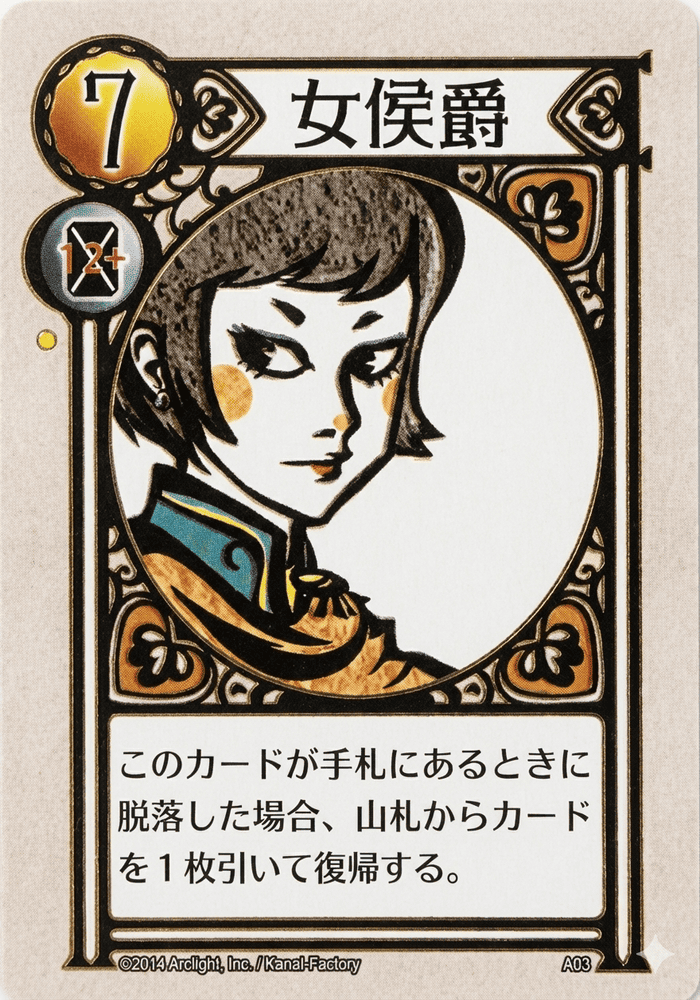
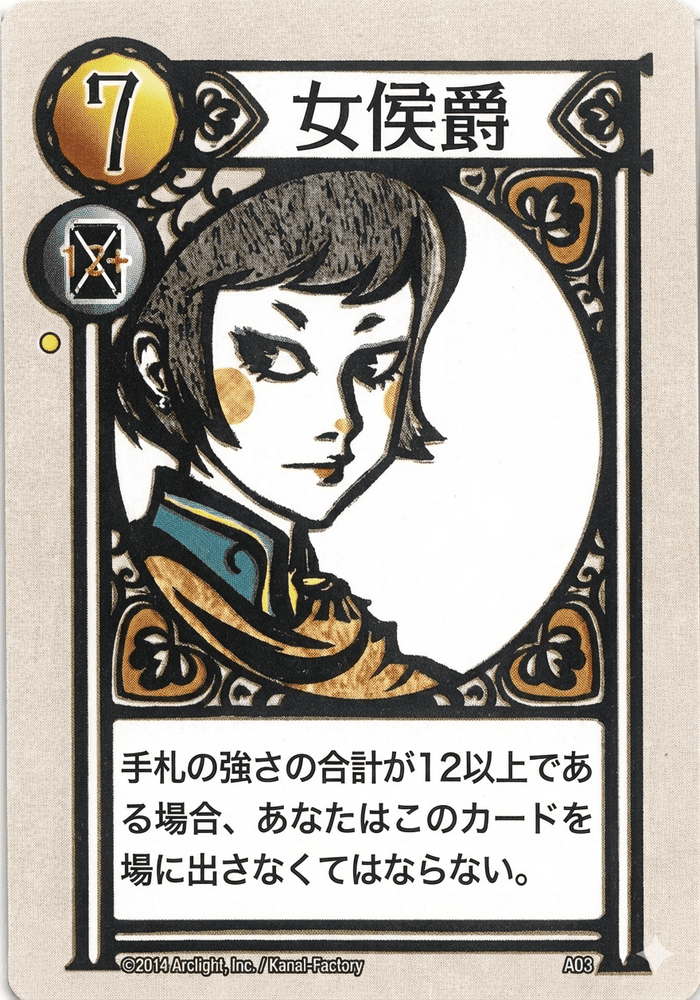
dev (assets 20251231031048)

diff --git a/bbg.js b/bbg.js
@@ -3599,15 +3599,18 @@
   }
 
   function llMustPlayCountess(hand) {
+    // Extra card rule (7:countess):
+    // If you have the Countess and your hand total is 12 or more, you must play the Countess.
     if (!Array.isArray(hand) || hand.length < 2) return false;
-    var has7 = false;
-    var has5or6 = false;
+    var hasCountess = false;
+    var total = 0;
     for (var i = 0; i < hand.length; i++) {
-      var r = llCardRankStr(hand[i]);
-      if (r === '7') has7 = true;
-      if (r === '5' || r === '6') has5or6 = true;
+      var cid = String(hand[i] || '');
+      if (!cid) continue;
+      if (cid === '7:countess') hasCountess = true;
+      total += llCardRank(cid) || 0;
     }
-    return has7 && has5or6;
+    return hasCountess && total >= 12;
   }
 
   function llDrawFromRound(round) {
@@ -3779,7 +3782,7 @@
     protectedMap[startId] = false;
     if (hands[startId] && deck.length) hands[startId].push(String(deck.pop()));
 
-    // Minister(7) overload rule: if you have 7 and your 2-card total >= 12, you immediately lose.
+    // Minister(7) overload rule: if you have the base Minister card ('7') and your 2-card total >= 12, you immediately lose.
     // Hold the round until the player acknowledges.
     var startHand = Array.isArray(hands[startId]) ? hands[startId] : [];
     if (startHand.length >= 2) {
@@ -3788,7 +3791,7 @@
       var av0 = llCardRank(a0);
       var bv0 = llCardRank(b0);
       var total0 = (av0 || 0) + (bv0 || 0);
-      if ((llCardRankStr(a0) === '7' || llCardRankStr(b0) === '7') && total0 >= 12) {
+      if ((a0 === '7' || b0 === '7') && total0 >= 12) {
         // eliminate and store reveal
         eliminated[startId] = true;
         protectedMap[startId] = false;
@@ -3904,8 +3907,8 @@
       var idx = myHand.indexOf(card);
       if (idx < 0) return room;
 
-      // Countess rule.
-      if (llMustPlayCountess(myHand) && llCardRankStr(card) !== '7') return room;
+      // Countess rule (extra card): force playing 7:countess.
+      if (llMustPlayCountess(myHand) && String(card) !== '7:countess') return room;
 
       // Remove played card from hand.
       myHand.splice(idx, 1);
@@ -3968,17 +3971,52 @@
         if (cardRank) grave.push(String(cardRank));
       }
 
-      function eliminatePlayer(pid, reason) {
-        if (eliminated[pid]) return;
+      function eliminatePlayer(pid, reason, opts) {
+        if (eliminated[pid]) return { eliminated: false, revived: false, drew: '' };
+
+        var h = hands && Array.isArray(hands[pid]) ? hands[pid].slice() : [];
+        var reviveByMegane = !!(opts && opts.megane);
+        if (!reviveByMegane) {
+          for (var mi = 0; mi < h.length; mi++) {
+            if (String(h[mi] || '') === '8:megane') {
+              reviveByMegane = true;
+              break;
+            }
+          }
+        }
+
         eliminated[pid] = true;
         protectedMap[pid] = false;
+
         // move remaining hand to discard (public)
-        var h = hands && Array.isArray(hands[pid]) ? hands[pid].slice() : [];
         for (var i = 0; i < h.length; i++) pushDiscard(pid, h[i]);
         hands[pid] = [];
+
+        if (reviveByMegane) {
+          // Revive: draw 1 card from deck; if empty, take the face-down burn card (grave[0]).
+          var drew = '';
+          var d = llDrawFromRound(round);
+          if (d) {
+            drew = String(d);
+            hands[pid] = [drew];
+          } else {
+            var burnCard = grave && Array.isArray(grave) && grave.length ? String(grave[0] || '') : '';
+            if (burnCard) {
+              grave.shift();
+              drew = burnCard;
+              hands[pid] = [drew];
+            }
+          }
+
+          eliminated[pid] = false;
+          protectedMap[pid] = false;
+          return { eliminated: true, revived: true, drew: drew };
+        }
+
         if (reason) {
           // reserved
         }
+        return { eliminated: true, revived: false, drew: '' };
       }
 
       var actorName = pname(actorId);
@@ -4005,8 +4043,8 @@
             logText += '（僧侶により保護中：無効）';
             protectedHit = true;
           } else if (th && parseIntSafe(th, 0) === g) {
-            eliminatePlayer(t, 'guard');
-            logText += '（的中：脱落）';
+            var er1 = eliminatePlayer(t, 'guard');
+            logText += er1 && er1.revived ? '（的中：脱落→復帰）' : '（的中：脱落）';
             hit = true;
           } else {
             logText += '（外れ）';
@@ -4056,11 +4094,11 @@
               if (av === bv) {
                 logText += '（引き分け）';
               } else if (av < bv) {
-                eliminatePlayer(actorId, 'knight');
-                logText += '（' + pname(t3) + ' 勝ち：' + actorName + ' 脱落）';
+                var erK1 = eliminatePlayer(actorId, 'knight');
+                logText += '（' + pname(t3) + ' 勝ち：' + actorName + (erK1 && erK1.revived ? ' 脱落→復帰）' : ' 脱落）');
               } else {
-                eliminatePlayer(t3, 'knight');
-                logText += '（' + actorName + ' 勝ち：' + pname(t3) + ' 脱落）';
+                var erK2 = eliminatePlayer(t3, 'knight');
+                logText += '（' + actorName + ' 勝ち：' + pname(t3) + (erK2 && erK2.revived ? ' 脱落→復帰）' : ' 脱落）');
               }
             }
             // Show both cards to everyone, and wait for actor to proceed.
@@ -4090,8 +4128,9 @@
             logText += ' → ' + pname(t5) + ' に捨て札';
             var drawn = '';
             if (llCardRankStr(old) === '8') {
-              eliminatePlayer(t5, 'wizard_princess');
-              logText += '（姫：脱落）';
+              var isMegane = String(old) === '8:megane';
+              var erP = eliminatePlayer(t5, 'wizard_princess', isMegane ? { megane: true } : null);
+              logText += isMegane ? '（姫(眼鏡)：脱落→復帰）' : '（姫：脱落）';
             } else {
               var d5 = llDrawFromRound(round);
               if (d5) {
@@ -4145,8 +4184,13 @@
         // Countess
         logText += '（効果なし）';
       } else if (cardRankStr === '8') {
-        // Princess (cannot be played by choice)
-        return room;
+        // Princess: base '8' cannot be played by choice, but 8:megane can.
+        if (String(card) === '8:megane') {
+          eliminatePlayer(actorId, 'megane_play', { megane: true });
+          logText += '（姫(眼鏡)：脱落→復帰）';
+        } else {
+          return room;
+        }
       }
 
       // Write back updated round parts.
@@ -4209,9 +4253,9 @@
         if (drawn2) {
           var before = nextHand.length ? String(nextHand[0]) : '';
           nextHand.push(String(drawn2));
-          // Minister overload: if you have 7 and your 2-card total >= 12, you immediately lose.
+          // Minister overload: if you have base '7' and your 2-card total >= 12, you immediately lose.
             var total = (llCardRank(before) || 0) + (llCardRank(drawn2) || 0);
-            if ((llCardRankStr(before) === '7' || llCardRankStr(drawn2) === '7') && total >= 12) {
+            if ((before === '7' || String(drawn2) === '7') && total >= 12) {
               // eliminate and pause until ack
               eliminated[next.id] = true;
               protectedMap[next.id] = false;
@@ -4321,7 +4365,7 @@
           var before = nextHand.length ? String(nextHand[0]) : '';
           nextHand.push(String(drawn2));
             var total = (llCardRank(before) || 0) + (llCardRank(drawn2) || 0);
-            if ((llCardRankStr(before) === '7' || llCardRankStr(drawn2) === '7') && total >= 12) {
+            if ((before === '7' || String(drawn2) === '7') && total >= 12) {
               eliminated[next.id] = true;
               protectedMap[next.id] = false;
               for (var mdi = 0; mdi < nextHand.length; mdi++) pushDiscard(next.id, nextHand[mdi]);
@@ -8743,7 +8787,7 @@
         (isMyTurn
           ? '<div class="muted center ll-hint">タップで前後切替 / 長押しで使用</div>'
           : '<div class="muted center ll-hint">あなたの手札</div>') +
-        (isMyTurn && must7 ? '<div class="muted center">※ 大臣(7)を必ず使用</div>' : '') +
+        (isMyTurn && must7 ? '<div class="muted center">※ 女侯爵(7)を必ず使用（合計12以上）</div>' : '') +
         '</div>';
     }
 
@@ -9923,11 +9967,11 @@
             if (!rank) return;
             if (rank === '8') return;
 
-            // Enforce 大臣(7) mandatory rule on UI side too.
+            // Enforce 女侯爵(7:countess) mandatory rule on UI side too.
             try {
               var rr = lastRoom && lastRoom.round ? lastRoom.round : {};
               var myHand2 = rr && rr.hands && Array.isArray(rr.hands[playerId]) ? rr.hands[playerId] : [];
-              if (llMustPlayCountess(myHand2) && rank !== '7') return;
+              if (llMustPlayCountess(myHand2) && rank !== '7:countess') return;
             } catch (e) {
               // ignore
             }

diff --git a/index.html b/index.html
@@ -7,7 +7,7 @@
     <meta http-equiv="Pragma" content="no-cache" />
     <meta http-equiv="Expires" content="0" />
     <title>B_BoardGames</title>
-    <link rel="stylesheet" href="./bbg.css?v=20251231024313" />
+    <link rel="stylesheet" href="./bbg.css?v=20251231031048" />
   </head>
   <body>
     <main class="app">
@@ -33,8 +33,8 @@
     <script src="https://cdn.jsdelivr.net/npm/qrcode@1.5.1/build/qrcode.min.js"></script>
 
     <!-- Optional: embedded Firebase config (see bbg-config.js) -->
-    <script src="./bbg-config.js?v=20251231024313"></script>
+    <script src="./bbg-config.js?v=20251231031048"></script>
 
-    <script src="./bbg.js?v=20251231024313" defer></script>
+    <script src="./bbg.js?v=20251231031048" defer></script>
   </body>
 </html>
